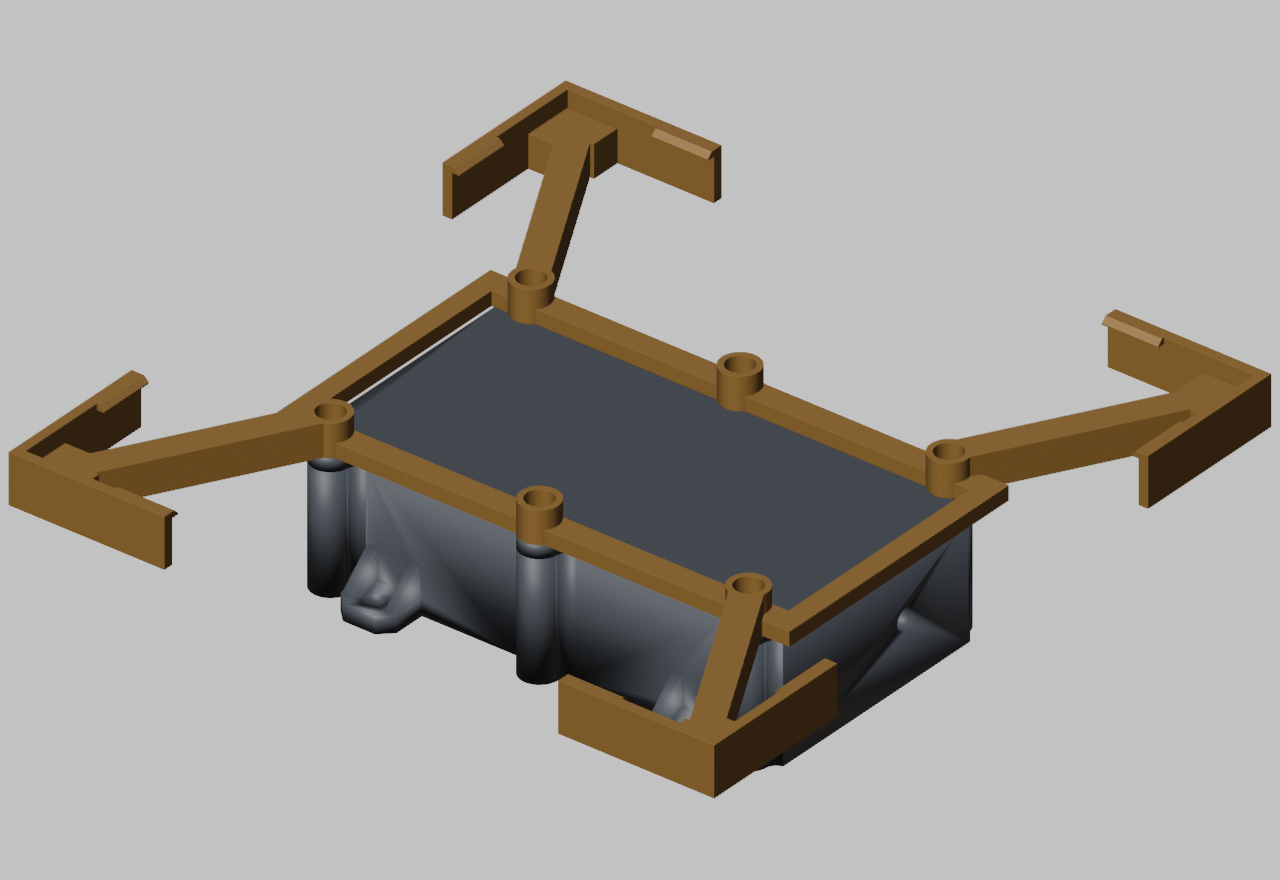
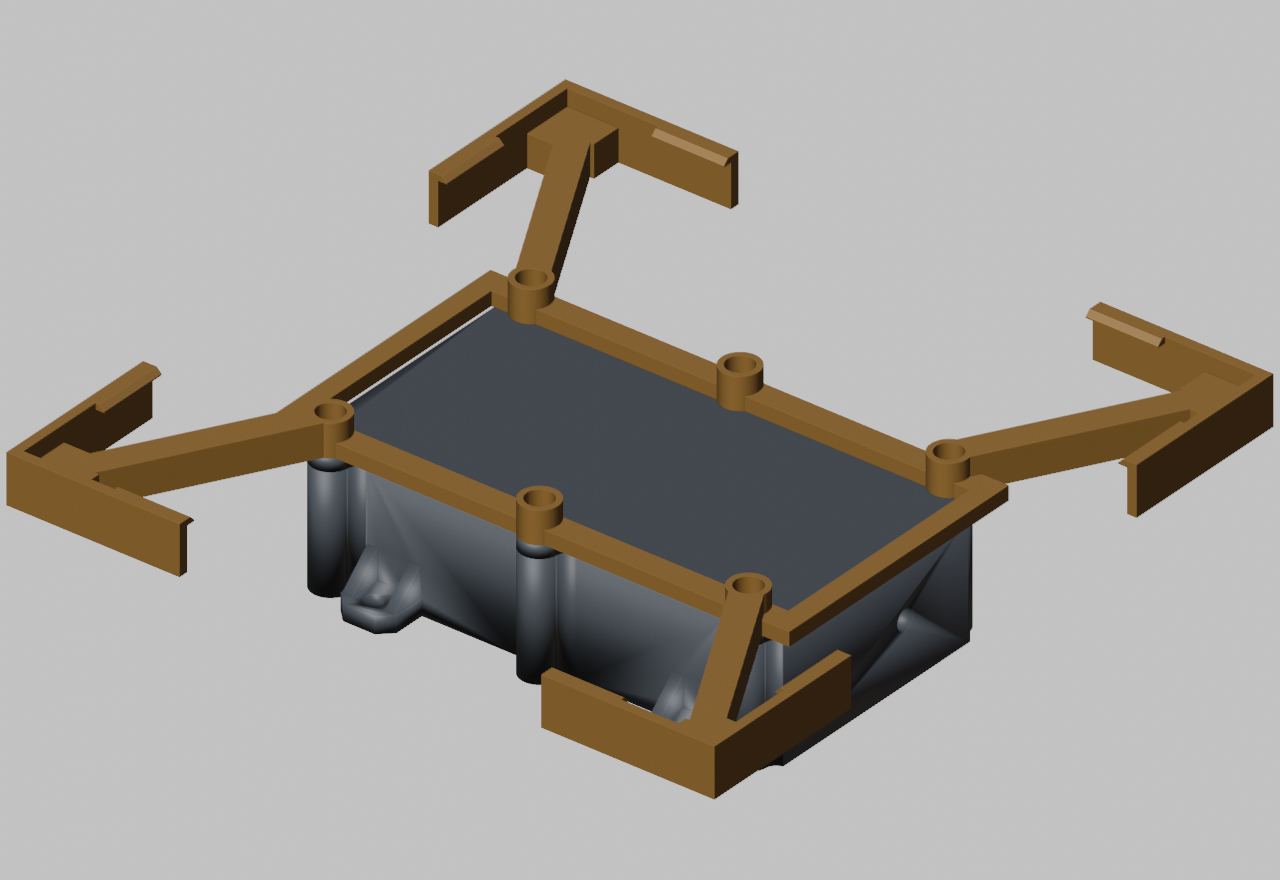
Widen solar panel mount fit

diff --git a/scripts/build_mount.py b/scripts/build_mount.py
@@ -47,7 +47,7 @@ CASE_HX = 58.9                        # meta` lunghezza esterna della scatola
 PANEL_W, PANEL_H = 170.0, 170.0       # ingombro del pannello (X, Y)
 PANEL_T = 2.4                         # spessore del laminato in vetroresina
 PANEL_FIT = 0.3                       # aria in Z fra dorso e dente
-PANEL_CLR = 0.4                       # aria in pianta fra bordo e montanti
+PANEL_CLR = 0.7                       # aria in pianta fra bordo e montanti
 
 # ------------------------------------------------------------------- corpo
 # Due sole quote in Z: la lastra e` sottile, e sale a RISE_H solo dove serve
@@ -71,7 +71,7 @@ RAIL_T = 2.4                          # spessore della lamella
 RAIL_L = 12.0                         # tratto di lamella fasciato dal piano:
                                       # e` li` che la linguetta ha la radice
 PAD_W = 7.0                           # larghezza dei rami del piano d'appoggio
-TONGUE_L = 24.0                       # sbalzo libero della linguetta
+TONGUE_L = 28.0                       # sbalzo libero della linguetta
 LIP_OVER = 1.5                        # quanto il dente scavalca il pannello
 LIP_H = 1.5                           # altezza del dente
 LIP_START = 10.0                      # da dove parte il dente lungo lo sbalzo

diff --git a/CLAUDE.md b/CLAUDE.md
@@ -35,7 +35,7 @@ modificata.
   delle viti e il coperchio** usando tutte e sei le M3 esistenti, quattro
   bracci diagonali e quattro teste d'angolo con le linguette a scatto.
 
-Ingombro 175.6 × 175.6 × 12.2 mm, ~22 g in PETG a riempimento 30%. Il pannello
+Ingombro 176.2 × 176.2 × 12.2 mm, ~23 g in PETG a riempimento 30%. Il pannello
 appoggia 8 mm sopra il coperchio.
 
 Il pannello è di **misura fissa** (`PANEL_W`, `PANEL_H`). È la scelta che ha
@@ -318,8 +318,8 @@ cancellano la scena e la ricostruiscono da zero. Ignora l'errore
   Non servono: la linguetta sta tutta fuori dal bordo del pannello, quindi la
   si preme direttamente sul fianco per sganciare.
 - Il pannello si aggancia premendolo giù: due linguette per angolo, otto in
-  tutto, ognuna 24 × 2.4 mm con un dente da 1.5. Deformazione allo scatto
-  0.94% (il PETG regge ~3% a breve termine), forza ~8 N per linguetta, ~15 N
+  tutto, ognuna 28 × 2.4 mm con un dente da 1.5. Deformazione allo scatto
+  0.69% (il PETG regge ~3% a breve termine), forza ~5 N per linguetta, ~10 N
   per angolo. Se allunghi il dente o accorci la linguetta ricontrolla il numero
   stampato dal report: sopra il 3% la linguetta non scatta, si spezza.
 - Le linguette sono **alte tutto il pezzo e partono dal piano di stampa**:

diff --git a/README.md b/README.md
@@ -81,7 +81,7 @@ prende il pannello per i quattro angoli con otto linguette a scatto.
   piedino, appoggio pieno sul piatto
 - Il pannello è di misura **fissa**: si cambia `PANEL_W`/`PANEL_H` e si
   ristampa
-- ~22 g in PETG, ingombro 175.6 × 175.6 × 12.2 mm
+- ~23 g in PETG, ingombro 176.2 × 176.2 × 12.2 mm
 
 | Dettaglio di una testa d'angolo |
 |---|
@@ -127,7 +127,7 @@ in `models/`.
 - Chiusura: 6 inserti filettati M3 a caldo + viti M3×10 a testa bombata
 - Fissaggio: 4 viti/bulloni M4 nelle alette
 - Montatura: un pezzo solo, appoggiato sul piatto così com'è; niente supporti,
-  ~22 g in PETG. Con la montatura le sei viti diventano **M3×12** (impegno 5.3
+  ~23 g in PETG. Con la montatura le sei viti diventano **M3×12** (impegno 5.3
   mm nell'inserto) e non serve nient'altro
 
 ## Licenza
